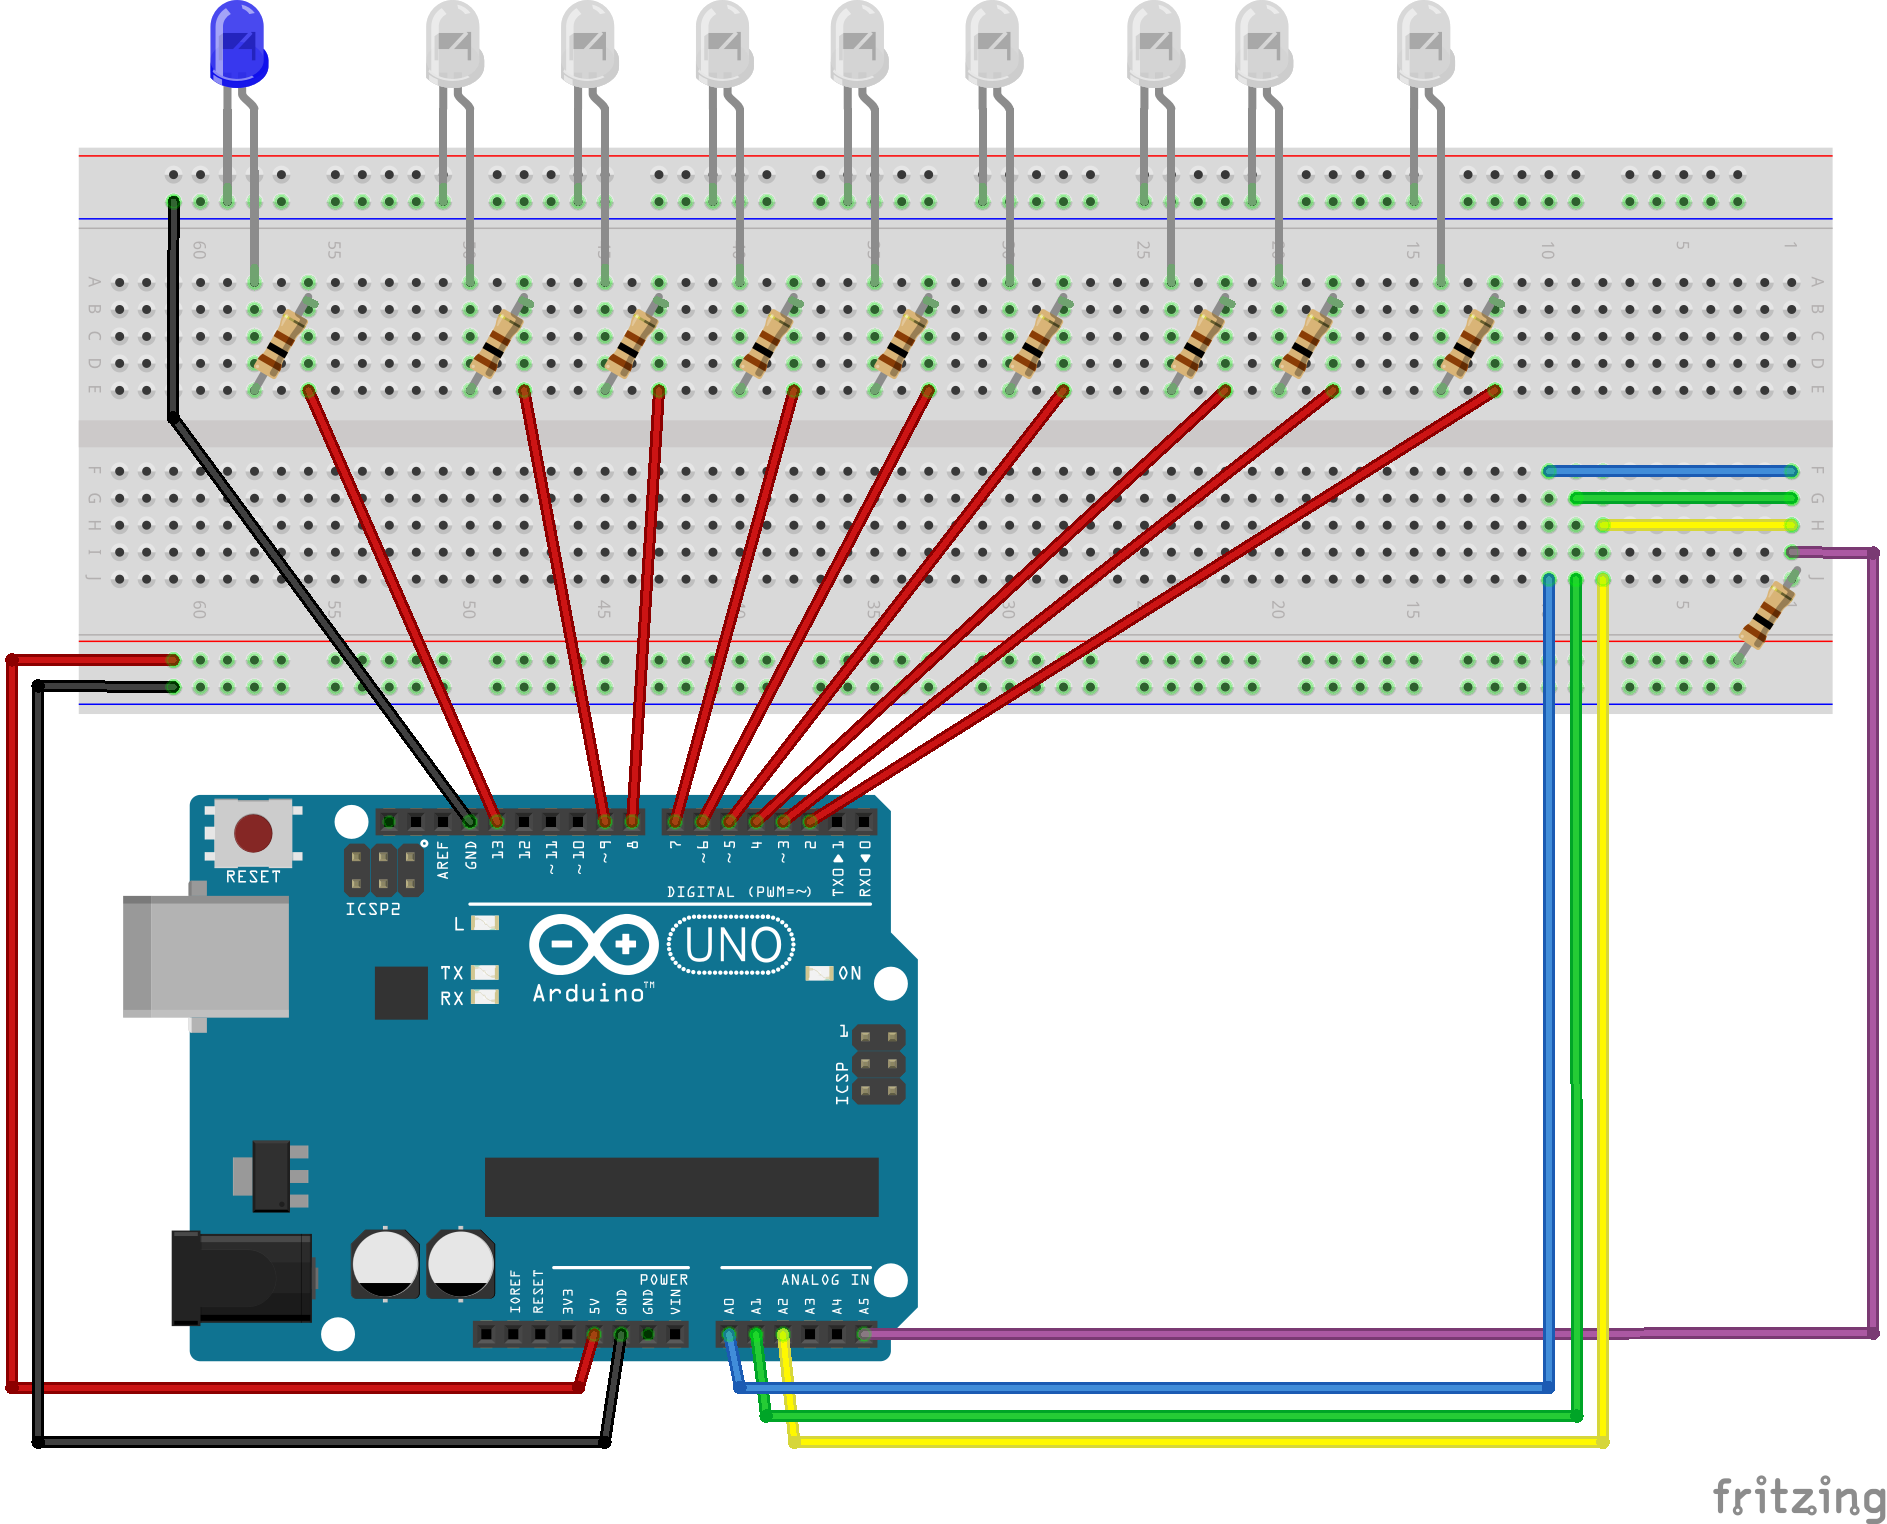
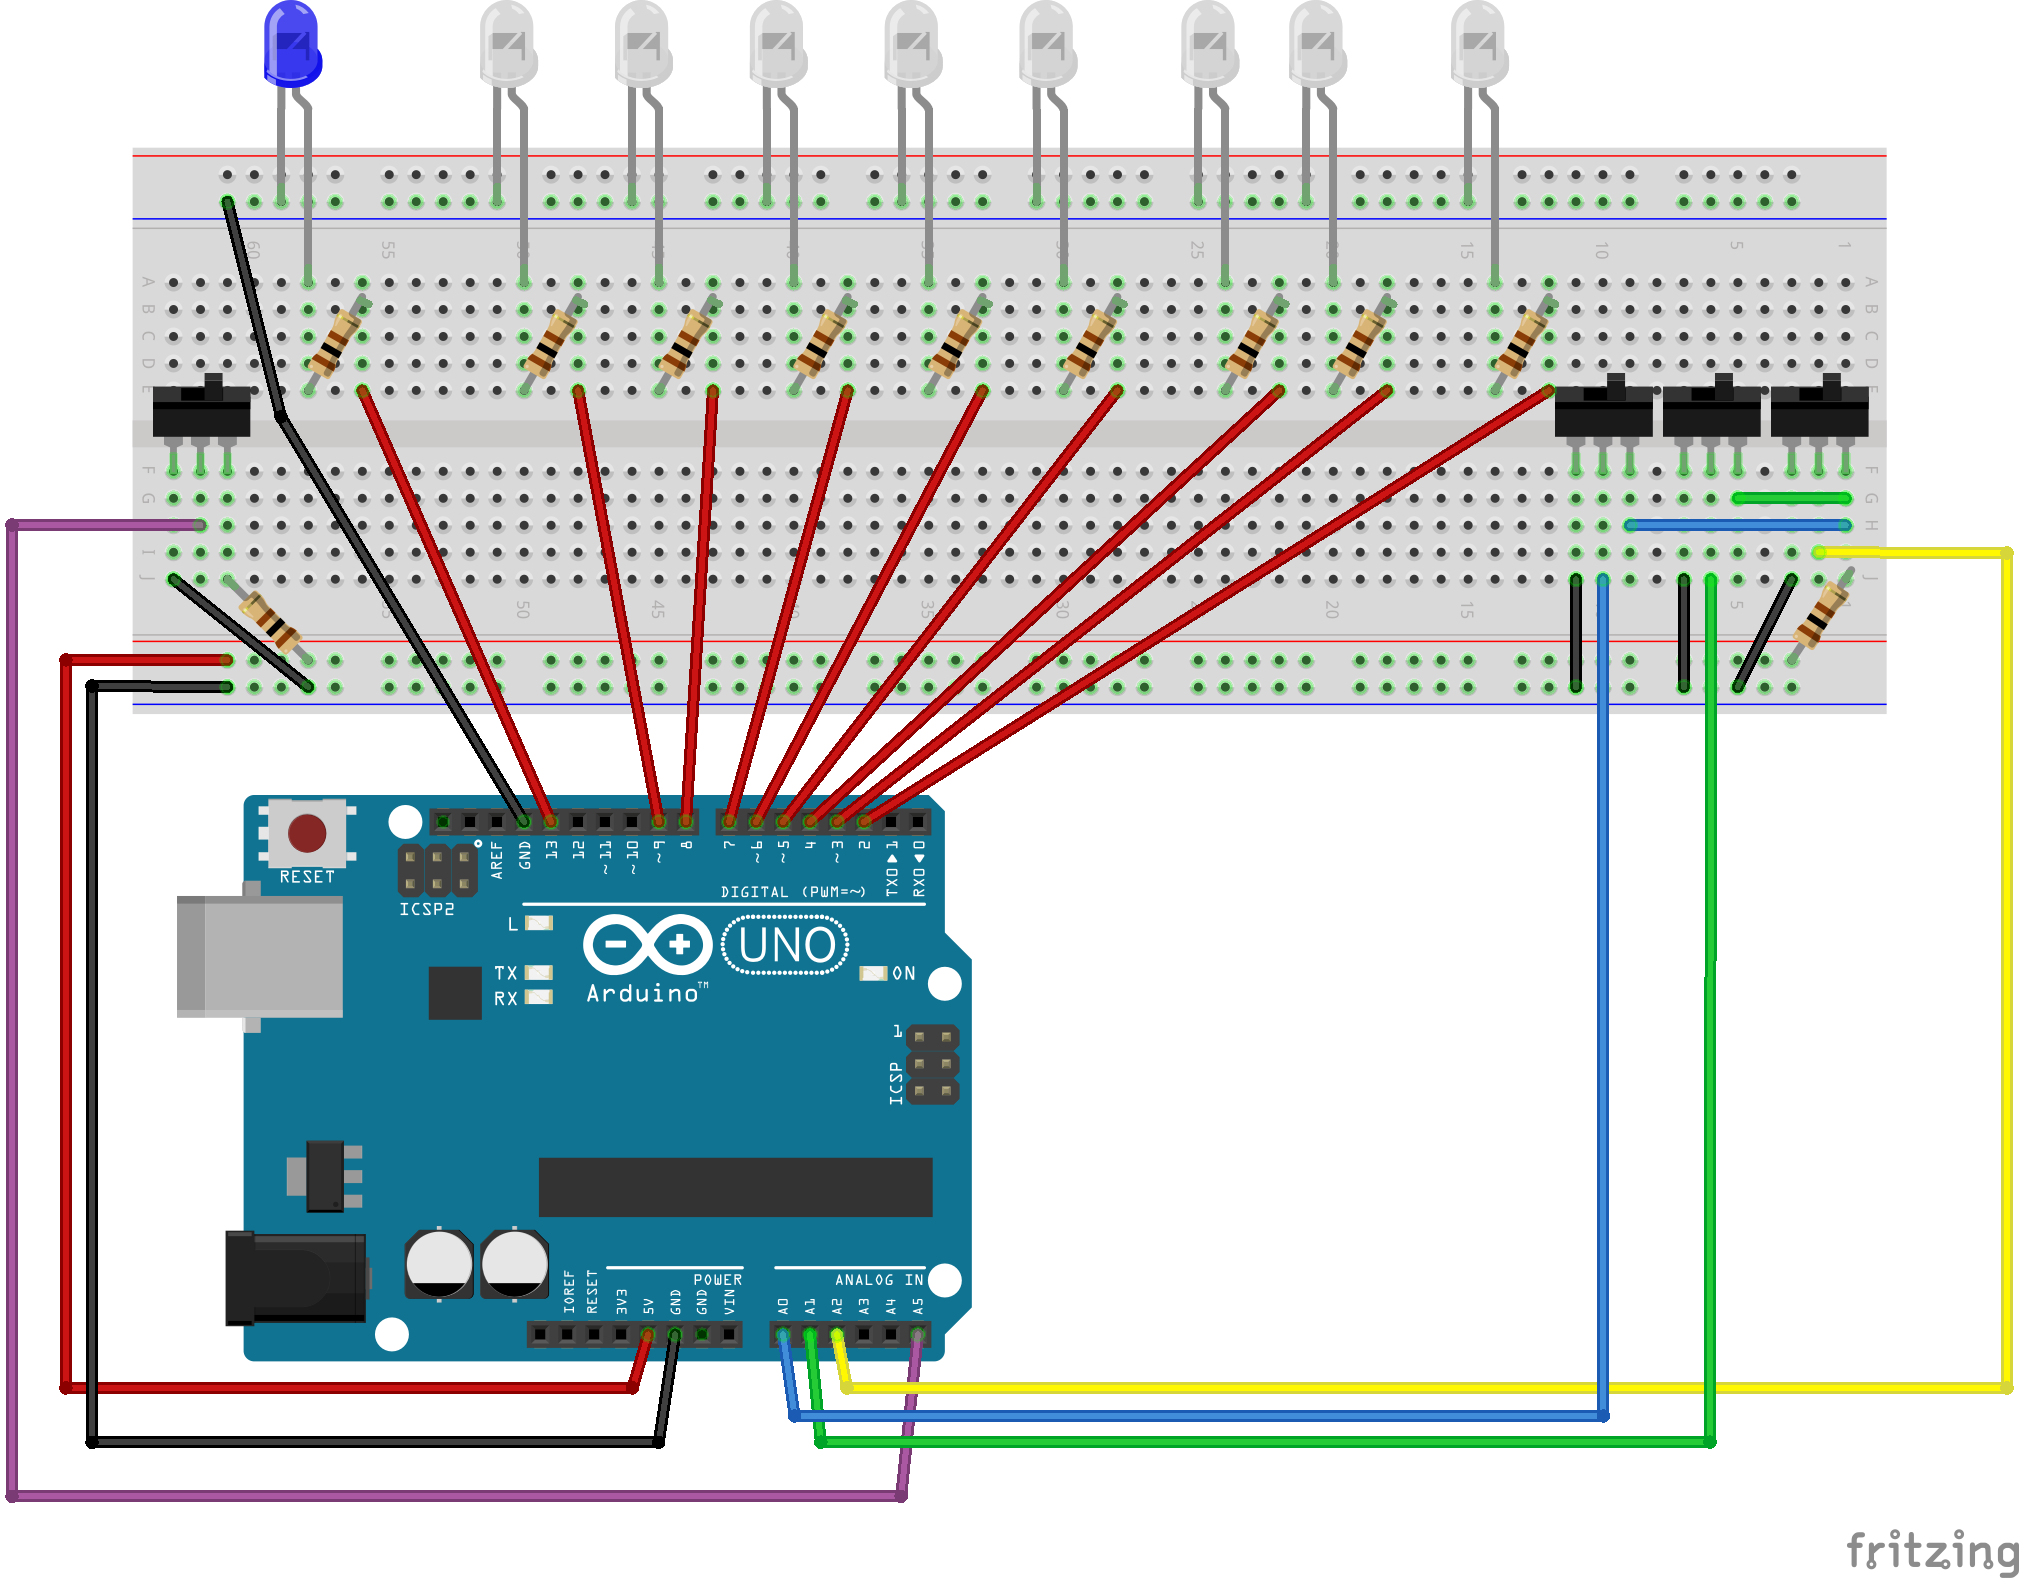
update diagram to add switches

diff --git a/README.md b/README.md
@@ -24,9 +24,10 @@ connected to `A0`, `A1`, `A2`. The analog inputs are read digitally as GPIO
 inputs where the values make a 3-bit number where `A0` is the least significant
 bit. To set a bit low, connect its corresponding wire to ground. The number to
 set is one less than the amount of LEDs to be lit. To change the number of
-lights, first set the enable pin (purple on the diagram) to ground, set the
-desired number of lights, then set the enable pin to high. The lights will
-light up with a small delay between LEDs, then remain on until the enable pin
-goes low again or the Arduino is powered off.
+lights, first set the enable pin (purple on the diagram) to ground (set the
+switch so all lights are off), set the desired number of lights, then flip the
+switch to set the enable pin to high. The lights will light up with a small
+delay between LEDs, then remain on until the enable pin goes low again or the
+Arduino is powered off.
 
 ![Arduino menorah circuit setup](https://github.com/domagalski/arduino-menorah/blob/main/menorah.png)
